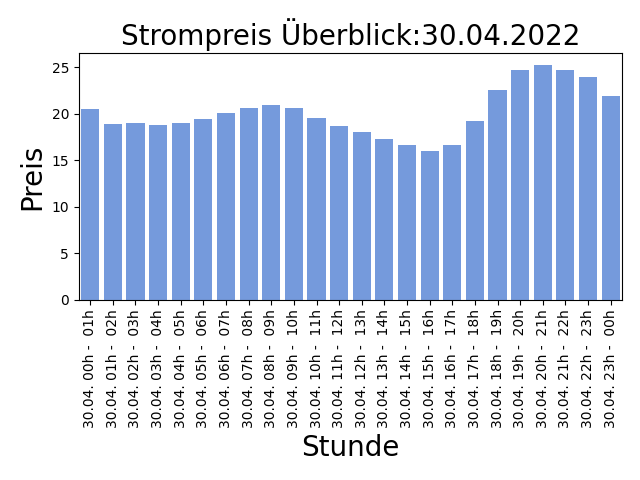
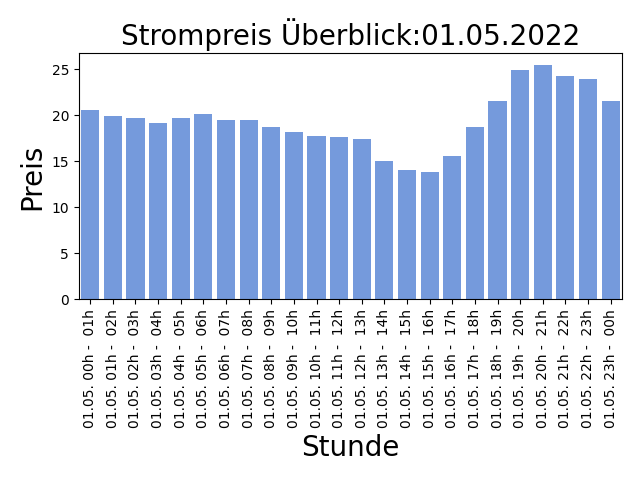
AUTOMATIC UPDATE PRICE LIST: 2022-04-30-14:30:05

diff --git a/README.md b/README.md
@@ -1,5 +1,5 @@
 
-## Strompreise für den 30.04.2022
+## Strompreise für den 01.05.2022
 
 Niedrige Preise deuten auf viel Sonnen und Windenergieerzeugung hin, ein hoher Anteil an erneuerbaren Energien bedeuted weniger CO2 Verbrauch!
 
@@ -7,31 +7,31 @@ Niedrige Preise deuten auf viel Sonnen und Windenergieerzeugung hin, ein hoher A
 
 | Stunde | Preis in Cent/kWh |
 |---|---|
-| 30.04. 00h -  01h | 20.478 | 
-| 30.04. 01h -  02h | 18.91 | 
-| 30.04. 02h -  03h | 18.991 | 
-| 30.04. 03h -  04h | 18.747 | 
-| 30.04. 04h -  05h | 18.996000000000002 | 
-| 30.04. 05h -  06h | 19.481 | 
-| 30.04. 06h -  07h | 20.1 | 
-| 30.04. 07h -  08h | 20.659 | 
-| 30.04. 08h -  09h | 21.000999999999998 | 
-| 30.04. 09h -  10h | 20.585 | 
-| 30.04. 10h -  11h | 19.595 | 
-| 30.04. 11h -  12h | 18.658 | 
-| 30.04. 12h -  13h | 18.003999999999998 | 
-| 30.04. 13h -  14h | 17.294 | 
-| 30.04. 14h -  15h | 16.634999999999998 | 
-| **30.04. 15h -  16h** | **15.969** | 
-| 30.04. 16h -  17h | 16.665 | 
-| 30.04. 17h -  18h | 19.202 | 
-| 30.04. 18h -  19h | 22.609 | 
-| 30.04. 19h -  20h | 24.697 | 
-| 30.04. 20h -  21h | 25.264 | 
-| 30.04. 21h -  22h | 24.711000000000002 | 
-| 30.04. 22h -  23h | 23.909 | 
-| 30.04. 23h -  00h | 21.9 | 
+| 01.05. 00h -  01h | 20.6 | 
+| 01.05. 01h -  02h | 19.97 | 
+| 01.05. 02h -  03h | 19.756 | 
+| 01.05. 03h -  04h | 19.22 | 
+| 01.05. 04h -  05h | 19.743000000000002 | 
+| 01.05. 05h -  06h | 20.131999999999998 | 
+| 01.05. 06h -  07h | 19.5 | 
+| 01.05. 07h -  08h | 19.494999999999997 | 
+| 01.05. 08h -  09h | 18.694 | 
+| 01.05. 09h -  10h | 18.204 | 
+| 01.05. 10h -  11h | 17.731 | 
+| 01.05. 11h -  12h | 17.65 | 
+| 01.05. 12h -  13h | 17.491999999999997 | 
+| 01.05. 13h -  14h | 15.074000000000002 | 
+| 01.05. 14h -  15h | 14.040000000000001 | 
+| **01.05. 15h -  16h** | **13.89** | 
+| 01.05. 16h -  17h | 15.59 | 
+| 01.05. 17h -  18h | 18.704 | 
+| 01.05. 18h -  19h | 21.585 | 
+| 01.05. 19h -  20h | 24.943 | 
+| 01.05. 20h -  21h | 25.494 | 
+| 01.05. 21h -  22h | 24.303 | 
+| 01.05. 22h -  23h | 23.972 | 
+| 01.05. 23h -  00h | 21.597 | 
 
 Preise der EPEX Spot ® Strombörse (neue Preise werden täglich um 14:00 veröffentlicht für den kompletten nächsten Tag).
 
-letzte Aktualisierung:29.04.2022 14:30
+letzte Aktualisierung:30.04.2022 14:30
